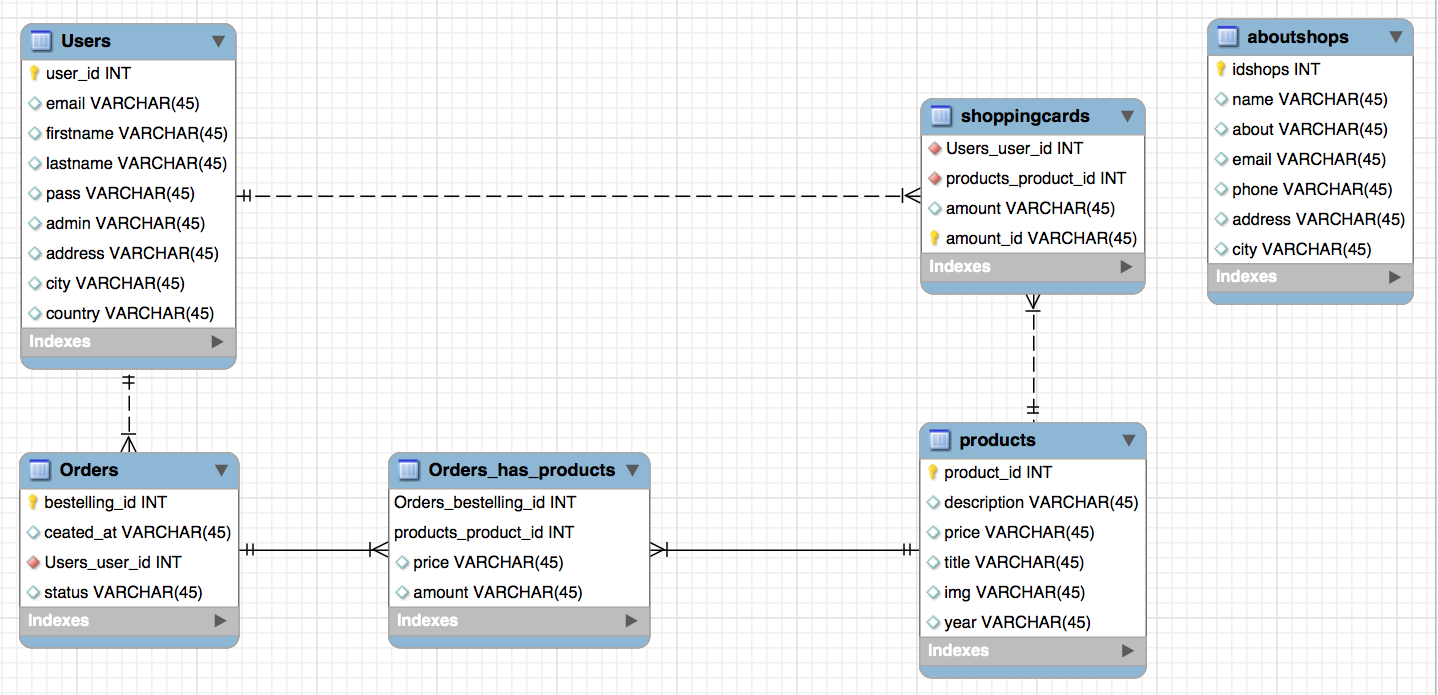
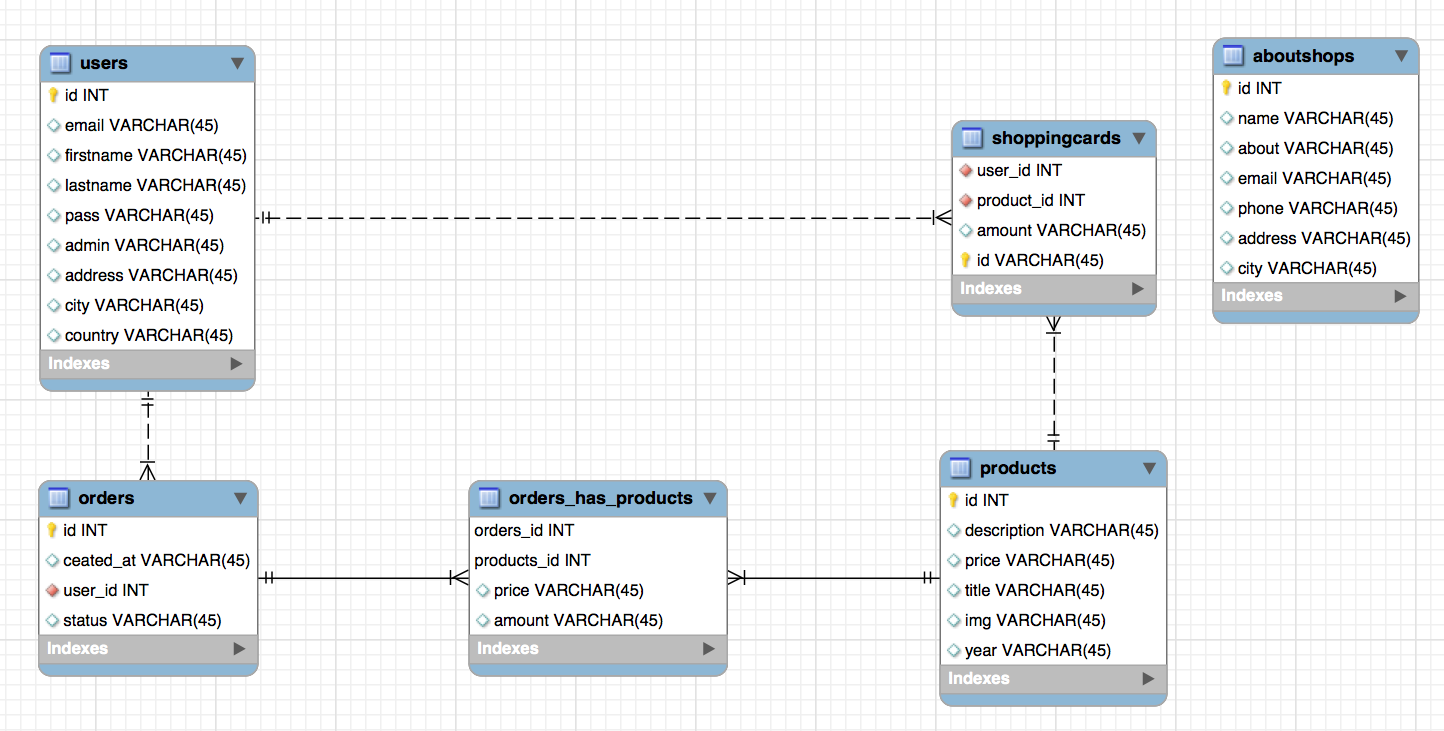
models 💁

diff --git a/alivino/app/Product.php b/alivino/app/Product.php
@@ -1,0 +1,17 @@
+<?php
+
+namespace App;
+
+use Illuminate\Database\Eloquent\Model;
+
+class Product extends Model
+{
+     public function orders_has_product()
+    {
+        return $this->belongsTo('App\Orders_has_product');
+    }
+    public function shoppingcar()
+    {
+        return $this->belongsTo('App\Shoppingcar');
+    }
+}

diff --git a/alivino/app/Order.php b/alivino/app/Order.php
@@ -1,0 +1,19 @@
+<?php
+
+namespace App;
+
+use Illuminate\Database\Eloquent\Model;
+
+class Order extends Model
+{
+    public function orders_has_product()
+    {
+        return $this->belongsTo('App\Orders_has_product');
+    }
+    public function user()
+    {
+        return $this->hasMany('App\User');
+    }
+   
+
+}

diff --git a/alivino/app/User.php b/alivino/app/User.php
@@ -26,4 +26,13 @@ class User extends Authenticatable
     protected $hidden = [
         'password', 'remember_token',
     ];
+    public function order()
+    {
+        return $this->belongsTo('App\Order');
+    }
+    public function shoppingcar()
+    {
+        return $this->belongsTo('App\Shoppingcar');
+    }
+
 }

diff --git a/alivino/app/Orders_has_prduct.php b/alivino/app/Orders_has_prduct.php
@@ -1,0 +1,17 @@
+<?php
+
+namespace App;
+
+use Illuminate\Database\Eloquent\Model;
+
+class Orders_has_prduct extends Model
+{
+    public function order()
+    {
+        return $this->hasMany('App\Order');
+    }
+    public function product()
+    {
+        return $this->hasMany('App\Product');
+    }
+}

diff --git a/alivino/app/Shoppingcar.php b/alivino/app/Shoppingcar.php
@@ -1,0 +1,17 @@
+<?php
+
+namespace App;
+
+use Illuminate\Database\Eloquent\Model;
+
+class Shoppingcar extends Model
+{
+    public function user()
+    {
+        return $this->hasMany('App\User');
+    }
+    public function product()
+    {
+        return $this->hasMany('App\Product');
+    }
+}

diff --git a/alivino/app/Aboutshop.php b/alivino/app/Aboutshop.php
@@ -1,0 +1,10 @@
+<?php
+
+namespace App;
+
+use Illuminate\Database\Eloquent\Model;
+
+class Aboutshop extends Model
+{
+    //
+}
